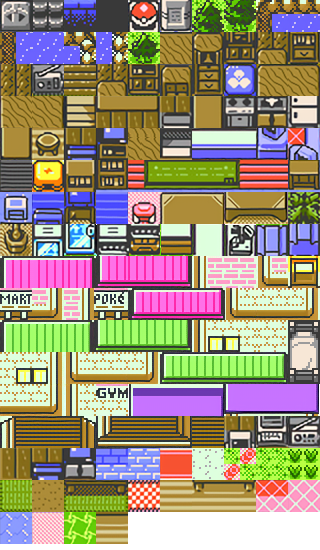
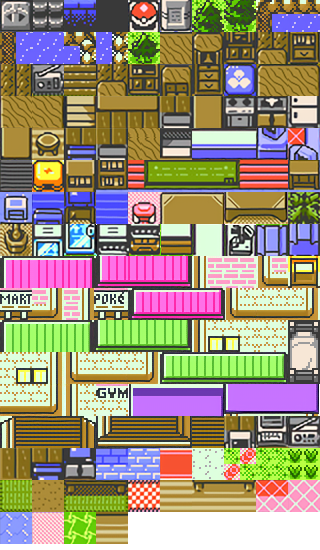
주인공집 1층완성

Changed region(s): [[0.2812, 0.2164, 0.4062, 0.3091]]

diff --git a/Map.py b/Map.py
@@ -200,26 +200,25 @@ def init_map():
                        [0, 140, 140, 140, 140, 140, 140, 140, 140, 140, 140, 140, 140, 140, 140, 140, 140, 140, 140, 140, 140, 0],
                        [0, 0, 0, 0, 0, 0, 0, 0, 0, 0, 0, 0, 0, 0, 0, 0, 0, 0, 0, 0, 0, 0]]
     #  0  1  2  3  4  5  6  7  8  9  10 11 12 13 14 15 16 17 18 19 20 21 22 23 24 25 26 27 28 29 30 31 32 33 34 35 36 37 38 39 40 41 42 43 44 45 46 47 48
-    Maping[6].array = [[0, 0, 0, 0, 0, 0, 0, 0, 0, 0, 0, 0, 0, 0, 0, 0, 0, 0, 0, 0, 0, 0],
-                       [0, 0, 0, 0, 0, 0, 0, 0, 0, 0, 0, 0, 0, 0, 0, 0, 0, 0, 0, 0, 0, 0],
-                       [0, 0, 0, 0, 0, 0, 0, 0, 0, 0, 0, 0, 0, 0, 0, 0, 0, 0, 0, 0, 0, 0],
-                       [0, 0, 0, 0, 0, 0, 0, 0, 0, 0, 0, 0, 0, 0, 0, 0, 0, 0, 0, 0, 0, 0],
-                       [0, 0, 0, 0, 0, 0, 0, 0, 0, 0, 0, 0, 0, 0, 0, 0, 0, 0, 0, 0, 0, 0],
-                       [0, 0, 0, 0, 0, 0, 0, 0, 0, 0, 0, 0, 0, 0, 0, 0, 0, 0, 0, 0, 0, 0],
-                       [0, 0, 0, 0, 0, 0, 0, 0, 0, 0, 0, 0, 4, 4, 0, 0, 0, 0, 0, 0, 0, 0],
-                       [0, 0, 0, 0, 0, 0, 1, 1, 1, 1, 1, 1, 1, 1, 1, 1, 0, 0, 0, 0, 0, 0],
-                       [0, 0, 0, 0, 0, 0, 1, 1, 1, 1, 1, 1, 1, 1, 1, 1, 0, 0, 0, 0, 0, 0],
-                       [0, 0, 0, 0, 0, 0, 1, 1, 1, 1, 3, 1, 1, 1, 1, 1, 0, 0, 0, 0, 0, 0],
-                       [0, 0, 0, 0, 0, 0, 1, 1, 1, 1, 0, 0, 0, 0, 1, 1, 0, 0, 0, 0, 0, 0],
-                       [0, 0, 0, 0, 0, 0, 1, 1, 1, 0, 0, 0, 0, 0, 1, 1, 0, 0, 0, 0, 0, 0],
-                       [0, 0, 0, 0, 0, 0, 1, 1, 1, 0, 1, 1, 1, 1, 1, 1, 0, 0, 0, 0, 0, 0],
-                       [0, 0, 0, 0, 0, 0, 0, 0, 0, 0, 0, 0, 1, 1, 1, 1, 0, 0, 0, 0, 0, 0],
-                       [0, 0, 0, 0, 0, 0, 0, 0, 0, 0, 0, 0, 0, 0, 0, 4, 0, 0, 0, 0, 0, 0],
-                       [0, 0, 0, 0, 0, 0, 0, 0, 0, 0, 0, 0, 0, 0, 0, 0, 0, 0, 0, 0, 0, 0],
-                       [0, 0, 0, 0, 0, 0, 0, 0, 0, 0, 0, 0, 0, 0, 0, 0, 0, 0, 0, 0, 0, 0],
-                       [0, 0, 0, 0, 0, 0, 0, 0, 0, 0, 0, 0, 0, 0, 0, 0, 0, 0, 0, 0, 0, 0],
-                       [0, 0, 0, 0, 0, 0, 0, 0, 0, 0, 0, 0, 0, 0, 0, 0, 0, 0, 0, 0, 0, 0],
-                       [0, 0, 0, 0, 0, 0, 0, 0, 0, 0, 0, 0, 0, 0, 0, 0, 0, 0, 0, 0, 0, 0],
+    Maping[6].array = [[0, 0, 0, 0, 0, 0, 0, 0, 0, 0, 0, 0, 89, 89, 0, 0, 0, 0, 0, 0, 0, 0],
+                       [0, 155, 155, 155, 155, 155, 155, 155, 155, 155, 155, 155, 145, 145, 155, 155, 155, 155, 155, 155, 155, 0],
+                       [0, 155, 155, 155, 155, 155, 155, 155, 155, 155, 155, 155, 155, 155, 155, 155, 155, 155, 155, 155, 155, 0],
+                       [0, 155, 155, 155, 155, 155, 155, 155, 155, 155, 155, 155, 155, 155, 155, 155, 155, 155, 155, 155, 155, 0],
+                       [0, 155, 155, 155, 155, 155, 155, 155, 155, 155, 155, 155, 155, 155, 155, 155, 155, 155, 155, 155, 155, 0],
+                       [0, 155, 155, 155, 155, 155, 155, 155, 155, 155, 155, 155, 155, 155, 155, 155, 155, 155, 155,155, 155, 0],
+                       [0, 155, 155, 155, 155, 155, 155, 155, 155, 155, 155, 155, 155, 155, 155, 155, 155, 155, 155,155, 155, 0],
+                       [0, 155, 155, 155, 155, 155, 155, 155, 155, 155, 156, 163, 163, 163, 157, 155, 155, 155, 155, 155, 155, 0],
+                       [0, 155, 155, 155, 155, 155, 155, 155, 155, 41, 30, 44, 44, 44, 31, 41, 155, 155, 155, 155, 155,0],
+                       [0, 155, 155, 155, 155, 155, 155, 155, 155, 41, 30, 44, 44, 44, 31, 41, 155, 155, 155, 155,155, 0],
+                       [0, 155, 155, 155, 155, 155, 155, 155, 140, 41, 28, 15, 15, 15, 29, 41, 155, 155, 155, 155, 155, 0],
+                       [0, 155, 155, 155, 155, 155, 155, 155, 40, 155, 155, 155, 155, 155, 155, 155, 155, 155, 155, 155, 155, 0],
+                       [0, 155, 155, 155, 155, 155, 155, 155, 36, 155, 155, 155, 155, 155, 155, 155, 155, 155, 155, 155, 155, 0],
+                       [0, 37, 38, 39, 155, 155, 155, 155, 36, 142, 155, 155, 155, 155, 155, 155, 155, 155, 155, 155, 155, 0],
+                       [0, 140, 140, 43, 140, 140, 140, 140, 36, 141, 140, 140, 140, 140, 140, 140, 140, 140, 140, 32, 140, 0],
+                       [0, 140, 140, 140, 140, 140, 140, 140,36, 140, 140, 140, 140, 140, 140, 140, 140, 140, 140, 140, 140, 0],
+                       [0, 140, 140, 140, 140, 140, 140, 140, 36, 140, 140, 140, 140, 140, 140, 140, 140, 140, 140, 140, 140, 0],
+                       [0, 140, 140, 140, 140, 140, 140, 140, 36, 140, 140, 140, 140, 140, 140, 140, 140, 140, 140, 140, 140, 0],
+                       [0, 140, 140, 140, 140, 140, 140, 140, 36, 140, 140, 140, 140, 140, 140, 140, 140, 140, 140, 140, 140, 0],
                        [0, 0, 0, 0, 0, 0, 0, 0, 0, 0, 0, 0, 0, 0, 0, 0, 0, 0, 0, 0, 0, 0]]
     # Lap
     Maping[7].array = [[0, 0, 0, 0, 0, 0, 0, 0, 0, 0, 0, 0, 0, 0, 0, 0, 0, 0, 0, 0, 0, 0],
@@ -543,7 +542,7 @@ def Draw_Map(round):
         while(x<22):
             Maping[26].map.clip_draw(Maping[round].array[Maping[round].Nowy // 32 + y][Maping[round].Nowx // 32 + x] % 10 * 32, 518 - Maping[round].array[Maping[round].Nowy // 32 + y][Maping[round].Nowx // 32 + x] // 10 * 32, 32, 32, -16 + 32 * x, -16 + 32 * y)
             x += 1
-            print(y,x)
+            # print(y,x)
         y += 1
 
 

diff --git a/Character.py b/Character.py
@@ -44,9 +44,11 @@ class Hero(character):
         #     self.mapx -= (self.movex * 32)
         #     self.mapy -= (self.movey * 32)
         #     return 0
-        if(map_array[self.mapy // 32 + 1][self.mapx // 32 + 1] == 89 or 45):
+        print(map_array[self.mapy // 32 + 1][self.mapx // 32 + 1],self.mapy // 32 + 1,self.mapx // 32 + 1)
+        check_num = map_array[self.mapy // 32 + 1][self.mapx // 32 + 1]
+        if(check_num  == 89 or check_num  == 45 or check_num  == 32):
             return 2
-        elif(map_array[self.mapy // 32 + 1][self.mapx // 32 + 1]<=142):
+        elif(check_num <=142):
             self.mapx -= (self.movex * 32)
             self.mapy -= (self.movey * 32)
             return 0
@@ -78,7 +80,7 @@ class Hero(character):
                 return 0,0,True,1
 
             elif self.mapy // 32 + 1 == 13:
-                self.mapx, self.mapy, self.chx, self.chy = 352, 192, 368, 176
+                self.mapx, self.mapy, self.chx, self.chy = 352, 16, 368, 16
                 return mapx, mapy, True, 6
 
             elif self.mapy // 32 + 1 == 15:
@@ -183,17 +185,18 @@ class Hero(character):
             elif self.mapy // 32 + 1 == 21:
                 self.mapx, self.mapy, self.chx, self.chy = 320, 192, 304, 176
                 return 64, 192, True, 25
+
         elif round == 5:                    # 주인공집 2층
-            if self.mapy // 32 + 1 == 12:
-                self.mapx, self.mapy, self.chx, self.chy = 448, 384, 464, 368
+            if self.mapy // 32 + 1 == 14:
+                self.mapx, self.mapy, self.chx, self.chy = 592, 400, 592, 400
             return mapx, mapy, True, 6
 
         elif round == 6:                    # 주인공집 1층
             if self.mapy // 32 + 1 == 14:
-                self.mapx, self.mapy, self.chx, self.chy = 432, 336, 432, 336
+                self.mapx, self.mapy, self.chx, self.chy = 592, 400, 592, 400
                 return mapx, mapy, True, 5
 
-            elif self.mapy // 32 + 1 == 6:
+            elif self.mapy // 32 + 1 == 0:
                 self.mapx, self.mapy, self.chx, self.chy = 432, 368, 432, 368
                 return mapx, mapy, True, 0
 

diff --git a/play_state.py b/play_state.py
@@ -14,14 +14,14 @@ hero = None
 def enter():
     global direct,round,mode,running,Map_change,hero,speed,Font_image,HPbar_image,Hp_image
     direct = -1  # 방향
-    round = 4  # 맵 변경에 사용하는 변수
+    round = 5  # 맵 변경에 사용하는 변수
     mode = 0  # 각종 모드에 사용하는 변수
     running = True
     Map_change = False  # 맵변경시 깜빡이는 효과를 내기 위한 변수
     speed = 0.07
     init_map()
-    #hero = Character.Hero(18,3350,32,32,304,304,304,304,0,0)
-    hero = Character.Hero(18,3350,32,32,624, 368, 1248, 352,0,0)
+    hero = Character.Hero(18,3350,32,32,304,304,304,304,0,0)
+    # hero = Character.Hero(18,3350,32,32,624, 368, 1248, 352,0,0)
     hero.character_image = pico2d.load_image('./resource/image/Character.png')
     Font_image = pico2d.load_image('./resource/image/Font.png')
     HPbar_image = pico2d.load_image('./resource/image/Hp_bar.png')

diff --git a/Test.py b/Test.py
@@ -7,7 +7,7 @@ Map.init_map()
 
 while True:
     clear_canvas()
-    Map.Draw_Map(5)
+    Map.Draw_Map(6)
     update_canvas()
     delay(0.01)
     get_events()
